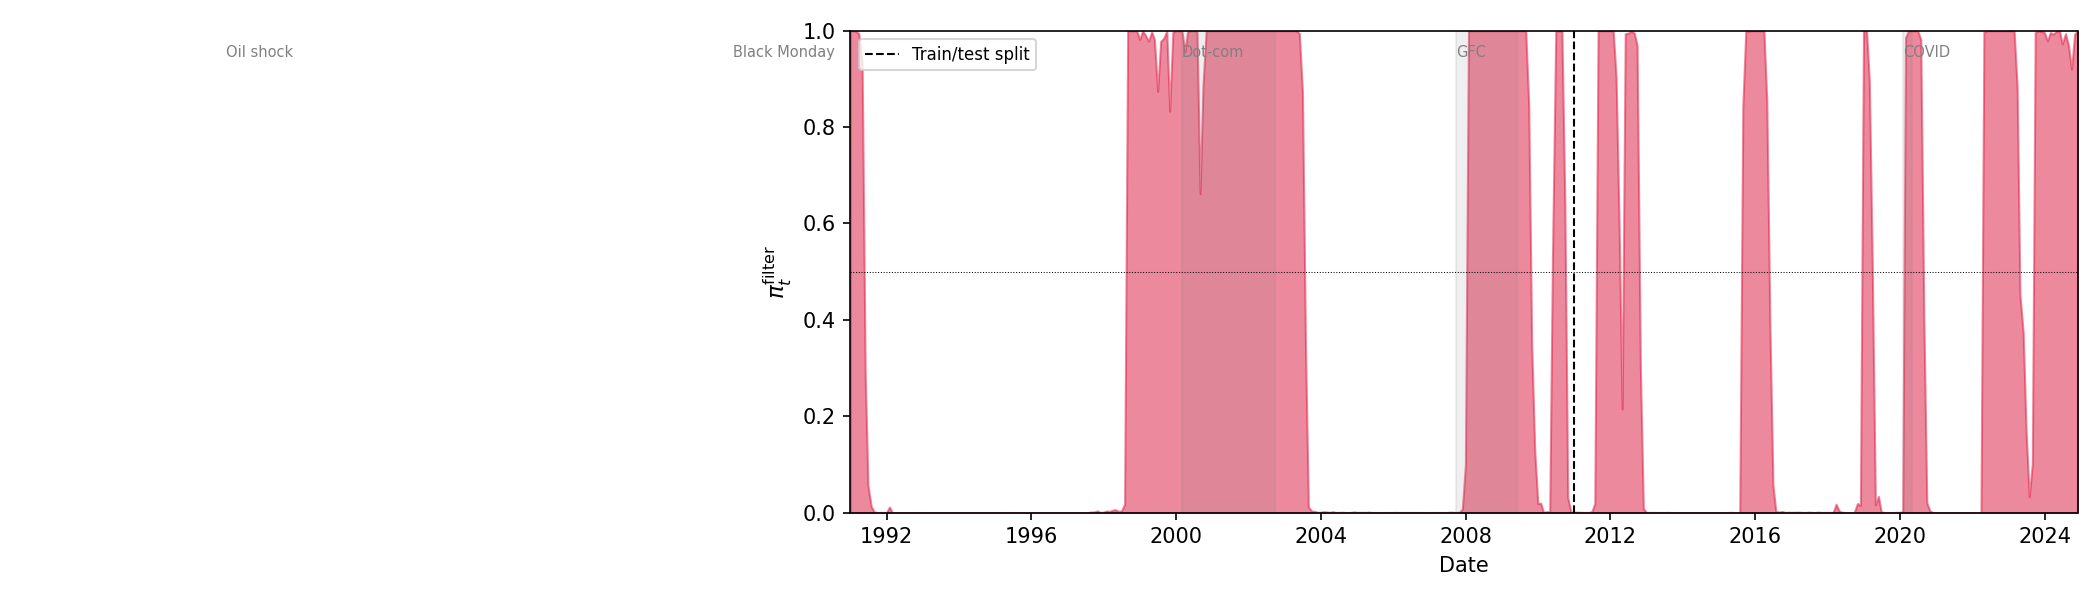
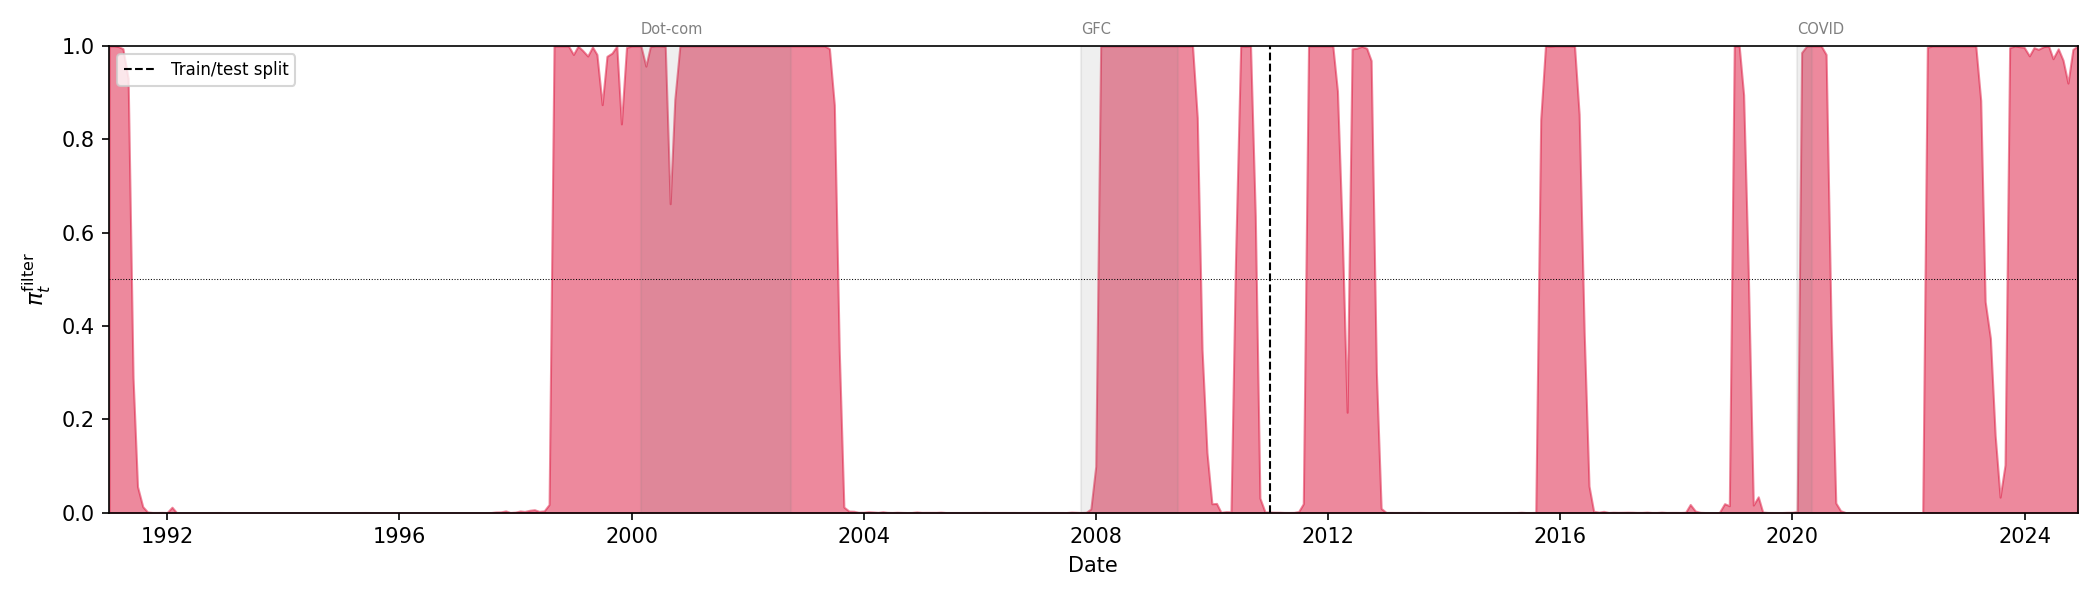
hmm_model: skip pre-data crisis labels and place crisis text above plot
shade_crises() now accepts data_start and skips crises whose start date
is before the data window, so 1973 Oil shock and 1987 Black Monday no
longer render as floating labels on the regime-probabilities plot
(panel begins Dec 1990). Move remaining labels from inside the plot
(y=0.97, va='top') to just above (y=1.02, va='bottom') so they no
longer overlap the pink fill. Also flip RERUN_MCMC default to False
(the cache is the working state). Regenerated regime_probabilities.png
from cached pi_filter; no MCMC rerun.

diff --git a/scripts/hmm_model.py b/scripts/hmm_model.py
@@ -271,7 +271,7 @@ def forward_filter(Z, mu, Sigma, P):
 # Set RERUN_MCMC = False to skip the sampler and load saved draws from disk.
 # Set RERUN_MCMC = True  to re-run the full sampler and overwrite saved draws.
 
-RERUN_MCMC  = True
+RERUN_MCMC  = False
 MCMC_CACHE  = 'data/mcmc_draws.npz'
 
 SEEDS = HMM_SEEDS  # from config.py
@@ -672,12 +672,15 @@ crises = [
     ('2020-02-01', '2020-05-01', 'COVID'),
 ]
 
-def shade_crises(ax, label=False):
+def shade_crises(ax, label=False, data_start=None):
     for start, end, lbl in crises:
-        ax.axvspan(pd.Timestamp(start), pd.Timestamp(end), alpha=0.12, color='grey')
+        s = pd.Timestamp(start)
+        if data_start is not None and s < pd.Timestamp(data_start):
+            continue
+        ax.axvspan(s, pd.Timestamp(end), alpha=0.12, color='grey')
         if label:
-            ax.text(pd.Timestamp(start), 0.97, lbl, fontsize=7, color='grey',
-                    va='top', transform=ax.get_xaxis_transform())
+            ax.text(s, 1.02, lbl, fontsize=7, color='grey',
+                    va='bottom', transform=ax.get_xaxis_transform())
 
 dates = panel['date']
 
@@ -691,9 +694,9 @@ ax.set_ylabel('$\\pi_t^{\\mathrm{filter}}$', fontsize=11)
 ax.set_ylim(0, 1)
 ax.axhline(0.5, color='black', linewidth=0.5, linestyle=':')
 ax.legend(fontsize=8, loc='upper left')
-shade_crises(ax, label=True)
 ax.set_xlabel('Date')
 ax.set_xlim(dates.min(), dates.max())
+shade_crises(ax, label=True, data_start=dates.min())
 
 plt.tight_layout()
 fig.savefig('plots/thesis/regime_probabilities.png', dpi=150)
